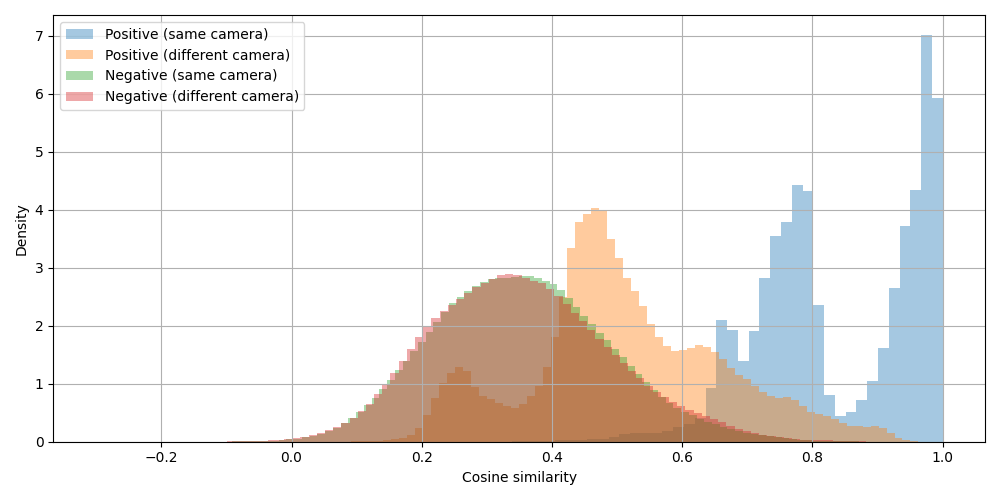
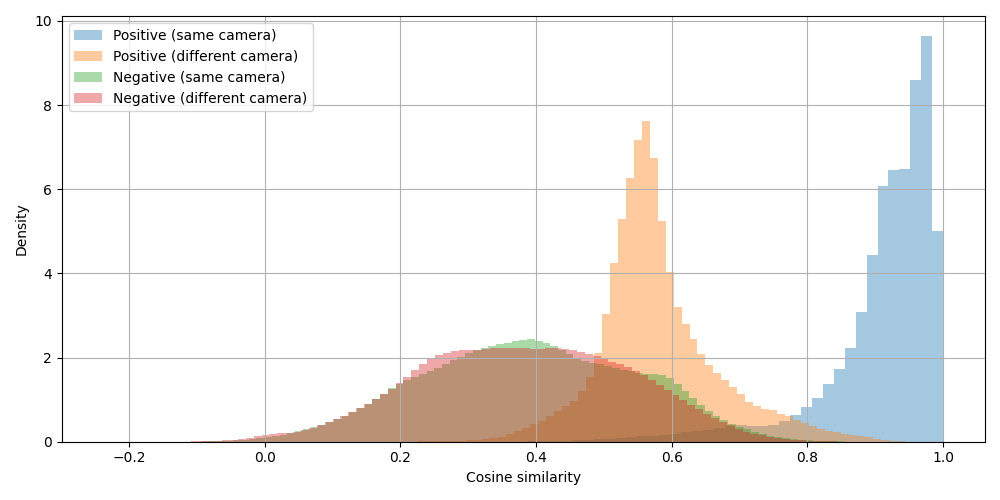
student model edits in train

diff --git a/vehicle_reid_repo2/vehicle_reid/train_knowl_dist.py b/vehicle_reid_repo2/vehicle_reid/train_knowl_dist.py
@@ -293,6 +293,81 @@ class DebugInfo:
             self.history = []
 
 
+def load_or_compute_centers(
+    center_loader,
+    teacher,
+    num_train_classes,
+    feat_dim,
+    device,
+    save_path,
+):
+    if os.path.exists(save_path):
+        print(f"[INFO] Loading class centers from {save_path}")
+        ckpt = torch.load(save_path, map_location="cpu")
+
+        centers = ckpt["centers"]
+        counts = ckpt.get("counts", None)
+
+        assert centers.shape == (num_train_classes, feat_dim), (
+            centers.shape, num_train_classes, feat_dim
+        )
+
+        centers = F.normalize(centers, dim=1)
+        centers = centers.to(device)
+        centers.requires_grad = False
+
+        return centers, counts
+
+    print("[INFO] Computing class centers from teacher model")
+
+    centers = torch.zeros(num_train_classes, feat_dim)
+    counts = torch.zeros(num_train_classes)
+
+    teacher.eval()
+    with torch.no_grad():
+        for imgs, labels in tqdm.tqdm(center_loader, desc="Computing class centers"):
+            assert labels.min() >= 0
+            assert labels.max() < num_train_classes
+
+            imgs = imgs.to(device)
+            labels = labels.to(device)
+
+            outputs = teacher(imgs)
+            feats = outputs[-1] if isinstance(outputs, (tuple, list)) else outputs
+            feats = F.normalize(feats, dim=1)
+
+            labels_cpu = labels.cpu()
+
+        centers.index_add_(0, labels_cpu, feats.cpu())
+        counts.index_add_(
+            0,
+            labels_cpu,
+            torch.ones_like(labels_cpu, dtype=counts.dtype),
+        )
+
+    # sanity: no empty classes
+    assert (counts > 0).all(), "Some classes have zero samples"
+
+    centers = centers / counts.unsqueeze(1)
+    centers = F.normalize(centers, dim=1)
+    centers.requires_grad = False
+
+    torch.save(
+        {
+            "centers": centers.cpu(),
+            "counts": counts.cpu(),
+            "num_classes": num_train_classes,
+            "feat_dim": feat_dim,
+        },
+        save_path,
+    )
+
+    print(f"[INFO] Saved class centers to {save_path}")
+
+    return centers.to(device), counts
+
+
+
 ######################################################################
 # Training the model
 # ------------------
@@ -393,6 +468,9 @@ def train_model(model, criterion, teacher, start_epoch=0, num_epochs=25, num_wor
             scale=32,
             margin=0.2
         ).to(device)
+        criterion_margin_rampup_epochs = 15  # over how many epochs to reach the full margin
+        criterion_margin_step = criterion_center_margin.margin / criterion_margin_rampup_epochs
+
 
 
     train_sampler = BatchSampler(
@@ -445,54 +523,30 @@ def train_model(model, criterion, teacher, start_epoch=0, num_epochs=25, num_wor
     num_train_classes = opt.nclasses
     feat_dim = opt.linear_num if opt.linear_num > 0 else 512
 
-    centers = torch.zeros(num_train_classes, feat_dim) ## Okey te gan es nevaru saprast vai tika pienemts ka visi ID ir 0 lidz N-1, nevis tie kas ir no csv
-    counts = torch.zeros(num_train_classes)
+    centers, counts = load_or_compute_centers(
+        center_loader=center_loader,
+        teacher=teacher,
+        num_train_classes=num_train_classes,
+        feat_dim=feat_dim,
+        device=device,
+        save_path="/home/toms.zinars/tomass/ReID_pipeline/embeddings/class_centers_teacher.pt",
+    )
 
-    with torch.no_grad():
-        for imgs, labels in tqdm.tqdm(center_loader, desc="Computing class centers"):
+    ### DEBUG >>>>>>>>>>>>>>>>>>>>>>>>>>>>>>>>>>>>>>>>>>>
 
-            assert labels.min() >= 0
-            assert labels.max() < num_train_classes
+    #Making sure every class has at least one sample ( centers will be NaN otherwise)
+    missing = (counts == 0).nonzero(as_tuple=True)[0]
+    if len(missing) > 0:
+        raise RuntimeError(
+            f"Missing centers for {len(missing)} classes. "
+            f"First few: {missing[:10].tolist()}"
+        )
+        
 
-            imgs = imgs.to(device)
-            labels = labels.to(device)
-
-            outputs = teacher(imgs)
-
-            if isinstance(outputs, (tuple, list)):
-                feats = outputs[-1]
-            else:
-                feats = outputs
-
-            feats = F.normalize(feats, dim=1)
-
-            for feat, label in zip(feats, labels):
-                centers[label] += feat.cpu()
-                counts[label] += 1
-
-        centers = centers / counts.unsqueeze(1)
-        centers = F.normalize(centers, dim=1)
-
-        centers = centers.to(device)
-        centers.requires_grad = False
-
-        assert centers.shape == (num_train_classes, feat_dim)
-        assert not centers.requires_grad
-
-        ### DEBUG >>>>>>>>>>>>>>>>>>>>>>>>>>>>>>>>>>>>>>>>>>>
-
-        #Making sure every class has at least one sample ( centers will be NaN otherwise)
-        missing = (counts == 0).nonzero(as_tuple=True)[0]
-        if len(missing) > 0:
-            raise RuntimeError(
-                f"Missing centers for {len(missing)} classes. "
-                f"First few: {missing[:10].tolist()}"
-            )
-
-        sim = centers @ centers.T
-        print("Class centers similarity matrix statistics:")
-        print(sim.mean().item(), sim.diag().mean().item()) # diag should be 1.0, mean should be low ~ 0.0
-        ### <<<<<<<<<<<<<<<<<<<<<<<<<<<<<<<<<<<<<<<<<<<<<<<<<<<<<
+    sim = centers @ centers.T
+    print("Class centers similarity matrix statistics:")
+    print(sim.mean().item(), sim.diag().mean().item()) # diag should be 1.0, mean should be low ~ 0.0
+    ### <<<<<<<<<<<<<<<<<<<<<<<<<<<<<<<<<<<<<<<<<<<<<<<<<<<<<
 
     ####################################################################
     # Epoch loop
@@ -513,6 +567,9 @@ def train_model(model, criterion, teacher, start_epoch=0, num_epochs=25, num_wor
 
         running_loss = torch.zeros(1).to(device)
         running_corrects = torch.zeros(1).to(device)
+
+        #DEBUG
+        print("Current criterion center margin:", criterion_center_margin.current_margin)
 
         if opt.debug:
             loss_debug = DebugInfo("loss", opt.debug_period)
@@ -591,6 +648,15 @@ def train_model(model, criterion, teacher, start_epoch=0, num_epochs=25, num_wor
                     loss += criterion_center_based(ff, labels, centers)
                 if opt.center_margin:
                     loss += criterion_center_margin(ff, labels, centers)
+                    # ramp up the margin
+                    if criterion_margin_rampup_epochs > 0:
+                        new_margin = min(
+                            criterion_center_margin.margin,
+                            criterion_center_margin.current_margin + criterion_margin_step
+                        )
+                        criterion_center_margin.set_margin(new_margin)
+                    # Need to decrease the margin rampup epochs number at the end of epoch!!
+                    
 
                 
             else:
@@ -648,6 +714,8 @@ def train_model(model, criterion, teacher, start_epoch=0, num_epochs=25, num_wor
 
         scheduler.step()
 
+        criterion_margin_rampup_epochs -= 1
+
 
         
         with open("vehicle_reid_repo2/vehicle_reid/automated_training/"+ opt.name +".txt", "a") as file:
@@ -664,7 +732,7 @@ def train_model(model, criterion, teacher, start_epoch=0, num_epochs=25, num_wor
 
         if epoch == num_epochs - 1 or (epoch % (opt.save_freq) == (opt.save_freq - 1)):
             save_network(model, epoch)
-    #        draw_curve(epoch)
+            # draw_curve(epoch)
         
         #Šito aizkomentet pectam
         # print('{},{},{:.4f},{:.4f}\n'.format(
@@ -933,3 +1001,17 @@ model = train_model(
     student_model, criterion, start_epoch=opt.start_epoch, num_epochs=opt.total_epoch,
     num_workers=opt.num_workers, teacher=teacher_model
 )
+
+######################################################################
+# Train and evaluate
+# ---------------------------
+
+if version[0] > 1 or (version[0] == 1 and version[1] >= 10):
+    criterion = torch.nn.CrossEntropyLoss(
+        label_smoothing=opt.label_smoothing)
+else:
+    criterion = torch.nn.CrossEntropyLoss()
+
+model = train_model(
+    student_model, criterion, start_epoch=opt.start_epoch, num_epochs=opt.total_epoch,
+    num_workers=opt.num_workers, teacher=teacher_model)

diff --git a/misc/load_embeddings_from_gt_into_db.py b/misc/load_embeddings_from_gt_into_db.py
@@ -120,8 +120,8 @@ def main():
                                         gt_path = f"/home/tomass/tomass/data/AIC22_Track1_MTMC_Tracking(1)/train/S01/c00{i}/gt/gt.txt",
                                         cam_id = f"S01c00{i}",
                                         split = "train",
-                                        model_opts_path="vehicle_reid_repo2/vehicle_reid/model/student_model_knowl_dist/opts.yaml",
-                                        model_ckpt_path="vehicle_reid_repo2/vehicle_reid/model/student_model_knowl_dist/net_10.pth")
+                                        model_opts_path="/home/tomass/tomass/ReID_pipele/vehicle_reid_repo2/vehicle_reid/model/student_model_knowl_dist_2/opts.yaml",
+                                        model_ckpt_path="/home/tomass/tomass/ReID_pipele/vehicle_reid_repo2/vehicle_reid/model/student_model_knowl_dist_2/net_1.pth")
                                         
         embedder.save_dict_to_db(db)
         # except:

diff --git a/vehicle_reid_repo2/vehicle_reid/custom_losses.py b/vehicle_reid_repo2/vehicle_reid/custom_losses.py
@@ -80,6 +80,10 @@ class MarginCenterEmbeddingLoss(nn.Module):
         super().__init__()
         self.scale = scale
         self.margin = margin
+        self.current_margin = 0.0  # <- start at 0
+
+    def set_margin(self, m):
+        self.current_margin = m
 
     def forward(self, embeddings, labels, centers):
         # embeddings: [B, D], normalized
@@ -91,7 +95,7 @@ class MarginCenterEmbeddingLoss(nn.Module):
         one_hot.scatter_(1, labels.view(-1, 1), 1.0)
 
         # apply margin only to GT class
-        cosine_m = cosine - one_hot * self.margin
+        cosine_m = cosine - one_hot * self.current_margin
 
         logits = self.scale * cosine_m
         return F.cross_entropy(logits, labels)

diff --git a/gt_cam_to_cam_embed_sim.py b/gt_cam_to_cam_embed_sim.py
@@ -337,7 +337,7 @@ if __name__ == "__main__":
     else:
         model = load_model_from_opts(
             "/home/tomass/tomass/ReID_pipele/vehicle_reid_repo2/vehicle_reid/model/student_model_knowl_dist_2/opts.yaml",
-            ckpt="/home/tomass/tomass/ReID_pipele/vehicle_reid_repo2/vehicle_reid/model/student_model_knowl_dist_2/net_7.pth",
+            ckpt="/home/tomass/tomass/ReID_pipele/vehicle_reid_repo2/vehicle_reid/model/student_model_knowl_dist_2/net_14.pth",
             remove_classifier=True,
             return_feature=True)
         model.eval()
